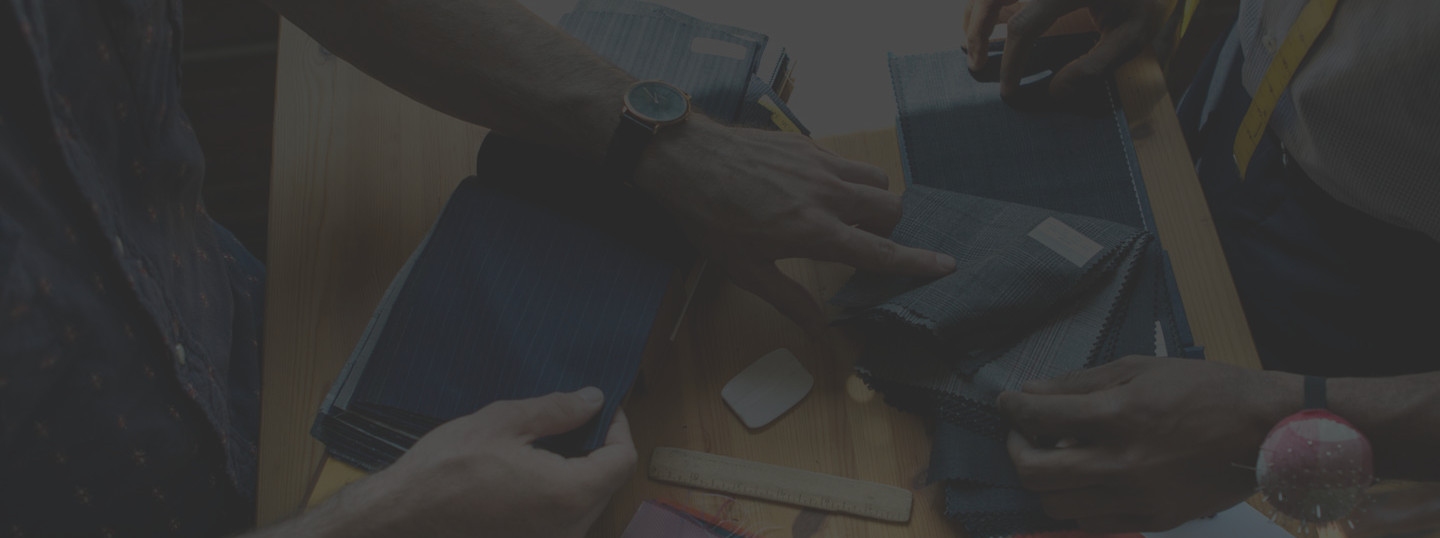
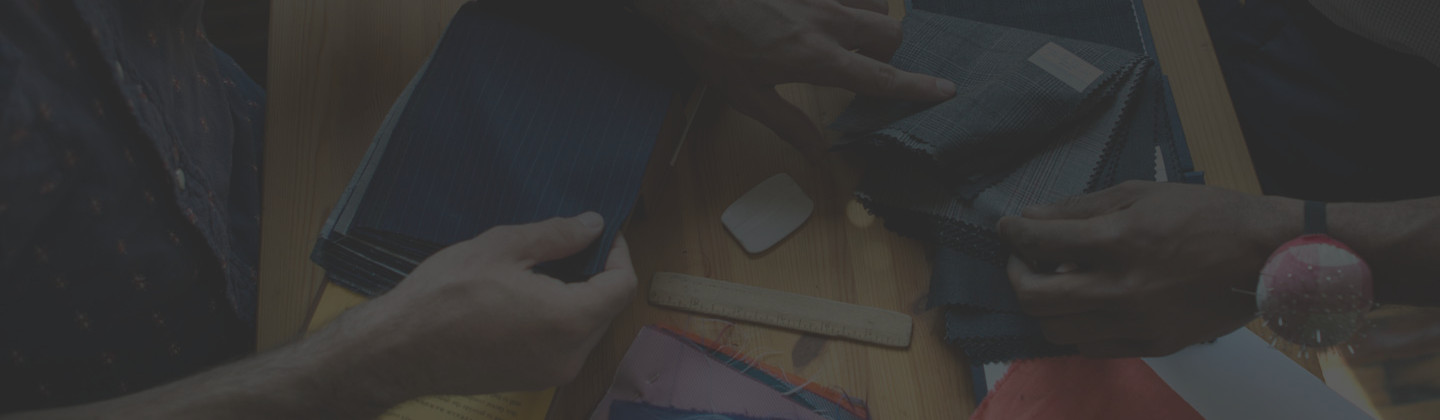
more heros

diff --git a/app/templates/layouts/product.html b/app/templates/layouts/product.html
@@ -1,20 +1,47 @@
-{% extends "layouts/default.html" %}
-
-{% block hero %}
-<h1 class="icon-header">
-	<span class="icon-header__icon icon-tile">
-		<svg class="" height="32" width="32">
-			<use xlink:href="#{{ page.metadata.icon }}"></use>
-		</svg>
-	</span>
-	<span class="icon-header__text">{{ page.metadata.title }}</span>
-</h1>
-<p>{{ page.metadata.tagline }}</p>
-{% endblock %}
-
-
-{% block aside %}
-{% if page.metadata.aside %}
-{% include "includes/" + page.metadata.aside %}
+{% extends "layouts/base.html" %}
+{% block page %}
+<img class="prefetch" src="{{ assets }}/images/{{ page.metadata.hero if page.metadata.hero else 'hero--default.jpg' }}" alt />
+<div class="hero {{ hero_style }}" style="background-image: url({{ assets }}/images/{{ page.metadata.hero if page.metadata.hero else 'hero--default.jpg' }})">
+	<div class="content-wrap">
+		{% block hero %}
+			<h1 class="icon-header">
+				<span class="icon-header__icon icon-tile">
+					<svg class="" height="32" width="32">
+						<use xlink:href="#{{ page.metadata.icon }}"></use>
+					</svg>
+				</span>
+				<span class="icon-header__text">{{ page.metadata.title }}</span>
+			</h1>
+			<p>{{ page.metadata.tagline }}</p>
+		{% endblock %}
+	</div>
+</div>
+{% if page.metadata.sections %}
+	<div class="section-links panel">
+		<div class="content-wrap">
+			<ul class="section-links__inner inline-list">
+				{% for section in page.metadata.sections|split(', ') %}
+					<li><a href="#{{ section | id }}">{{ section }}</a></li>
+				{% endfor %}
+			</ul>
+		</div>
+	</div>
 {% endif %}
+
+<div class="page-body">
+	<div class="content-wrap">
+		{% block header %}{% endblock %}
+
+		<div class="page-body__inner">
+			<main class="page-body__primary">
+				{% block content %}
+					<div class="markdown">
+						{{ page.html }}
+					</div>
+				{% endblock %}
+			</main>
+			<aside class="page-body__secondary">{% if page.metadata.aside %}{% include "includes/" + page.metadata.aside %}{% endif %}</aside>
+		</div>
+	</div>
+</div>
 {% endblock %}

diff --git a/app/templates/layouts/pages/about.html b/app/templates/layouts/pages/about.html
@@ -24,8 +24,8 @@
 
 <main>
 	<section class="page-body">
-		<div class="content-wrap">
-			<h2 id="the-founders" class="centred">The Founders</h2>
+		<div class="content-wrap centred">
+			<h2 id="the-founders">The Founders</h2>
 			<p class="tagline">The Big Wednesday IO team brings years of experience in advanced data structures and algorithms, data security and privacy, consumer advocacy, retail sales and B2B ecommerce. We used to help FTSE 500 companies solve their complex ecommerce and integration problems. Now, we're out to unleash powerful technology for businesses everywhere to use.</p>
 		</div>
 	</section>
@@ -86,7 +86,7 @@
 	<section class="page-body">
 		<div class="content-wrap centred">
 			<h2>Press</h2>
-			<p class="tagline">Big Wednesday IO enables businesses to create complex commerce applications rapidly by providing composable, developer-friendly APIs, intuitive modern management apps and data-backed personalisation... everywhere. Think beautiful code, great products and superb documentation.</p>
+			<p class="tagline">Big Wednesday IO enables businesses to create complex commerce applications rapidly by providing composable, developer-friendly APIs, intuitive modern management apps and data-backed personalisation...everywhere. Think beautiful code, great products and superb documentation.</p>
 
 			<ul class="press-list">
 				<li>

diff --git a/app/contents/assets/scss/theme/_base.scss b/app/contents/assets/scss/theme/_base.scss
@@ -270,6 +270,7 @@ label {
 .rounded {
 	display: inline-block;
 	border-radius: 50%; height: 100px;
+	margin-bottom: $pad-half;
 	overflow: hidden;
 }
 

diff --git a/app/contents/assets/scss/theme/_markdown.scss b/app/contents/assets/scss/theme/_markdown.scss
@@ -23,6 +23,8 @@
 
 	p > img {
 		display: block;
-		margin: 0 auto;
+		margin: 3em auto;
+		width: 100%;
+		max-width: 500px;
 	}
 }

diff --git a/app/contents/products/customer.md b/app/contents/products/customer.md
@@ -5,5 +5,3 @@ tagline: An intuitive app used for the maintenance and management of customer, a
 icon: diamond
 section: products
 ---
-
-Nunc non enim sapien. Donec tristique finibus leo sed tincidunt. Duis maximus non arcu et tempus. Donec fermentum, erat ut faucibus sollicitudin, justo lectus blandit risus, in iaculis nunc nisi eu dui. Nullam non volutpat mi. Suspendisse dignissim sodales tempus. Proin ac volutpat urna. Vestibulum ac ligula nec tortor mollis sodales sed sit amet lorem

diff --git a/app/contents/privacy.md b/app/contents/privacy.md
@@ -1,6 +1,7 @@
 ---
 template: layouts/default.html
 title: Privacy & Cookie Policy
+hero: hero--cookies.jpg
 ---
 
 Big Wednesday IO, at all times, is committed to and actively seeks to protect and respect your privacy. This is of critical important to us.

diff --git a/app/contents/solutions/searchful.md b/app/contents/solutions/searchful.md
@@ -1,6 +1,6 @@
 ---
 template: layouts/solution.html
 title: Searchful
-tagline: Delivering instant personalized search results... everywhere
+tagline: Delivering instant personalized search results...everywhere
 section: solutions
 ---
